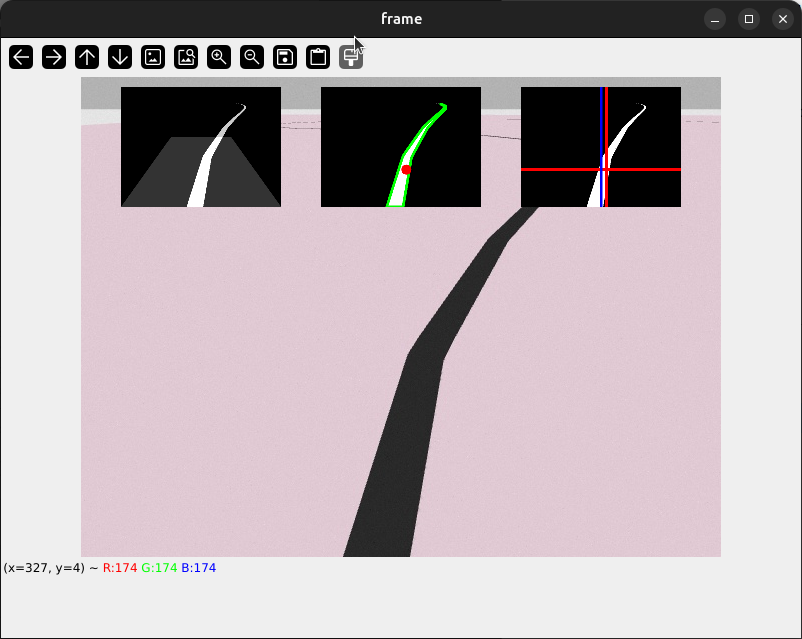
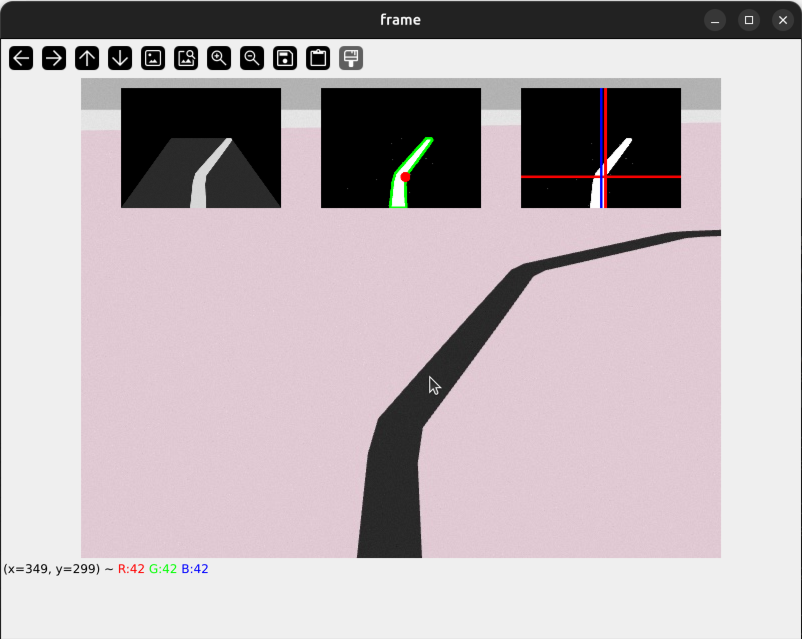
finishing line following with OpenCV

diff --git a/README.md b/README.md
@@ -23,6 +23,7 @@
 [image21]: ./assets/line-following.png "Line following"
 [image22]: ./assets/line-following-1.png "Line following"
 [image23]: ./assets/line-following-2.png "Line following"
+[image24]: ./assets/line-following-3.png "Line following"
 
 # Week 1-8: Cognitive robotics
 
@@ -1451,6 +1452,27 @@ The image processing pipeline is the following:
 4. Apply a highpass binary threshold on lightness channel so we can detect light objects (white), everything else is black
 5. Find all the white contours on the binary image
 6. Find the biggest contour and calculate its centroid
+
+Let's switch to the dark background:
+
+```bash
+ros2 launch turtlebot3_mogi simulation_bringup_line_follow.launch.py world:=dark_background.sdf
+```
+
+And don't forget to turn off inverting the lightness channel!
+```python
+        # 2. Invert lightness channel if we follow a dark line on a light background
+        #L = 255 - L # Invert lightness channel
+```
+
+![alt text][image24]
+
+You can try to tune the channel filter for the 3rd world in the package:
+```bash
+ros2 launch turtlebot3_mogi simulation_bringup_line_follow.launch.py world:=red_line.sdf
+```
+
+> It's difficult to do it with the lightness channel because both the background's and line's lightness values are similar although they are clearly different on the hue channel.
 
 # Neural network
 
